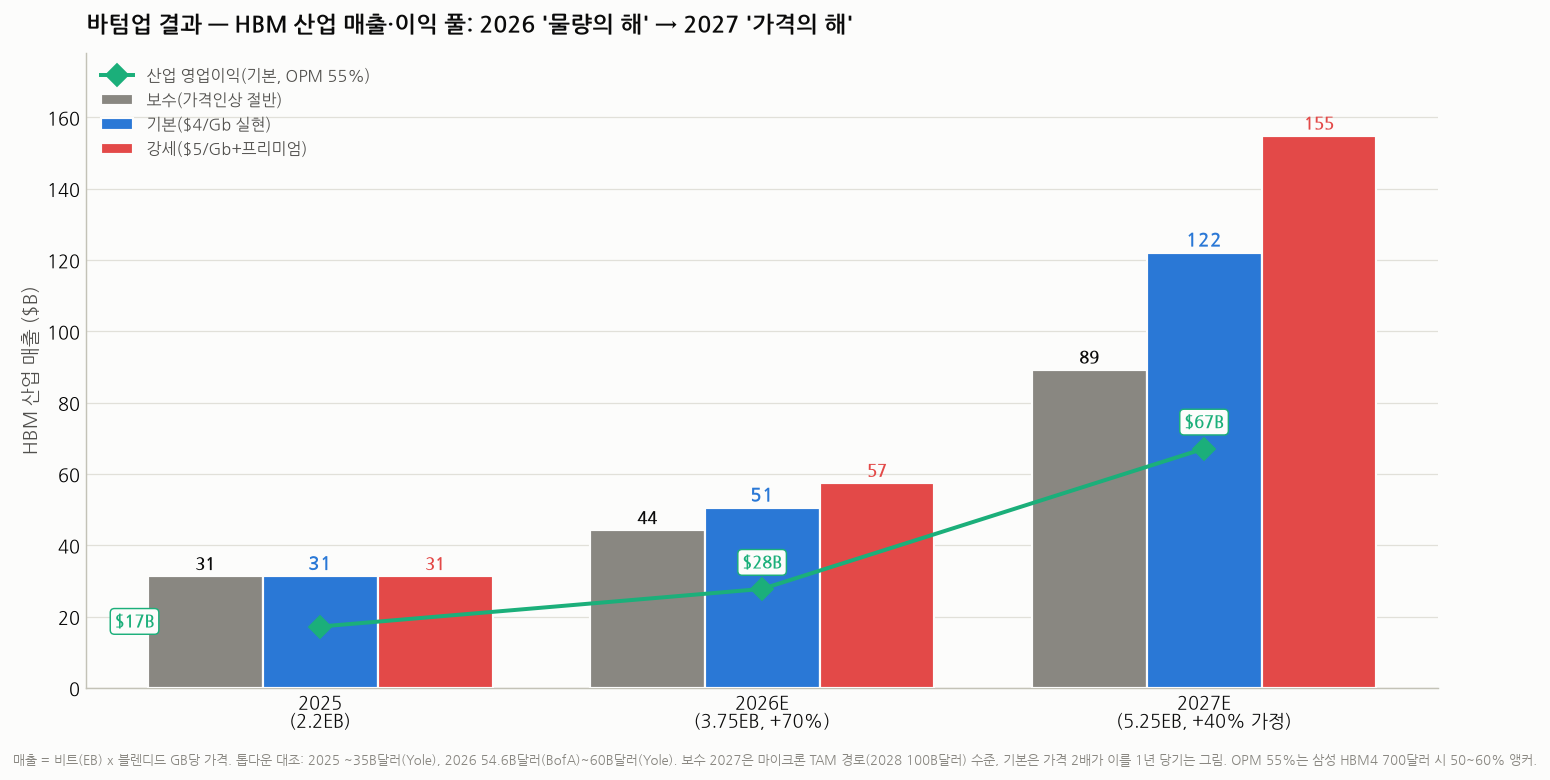
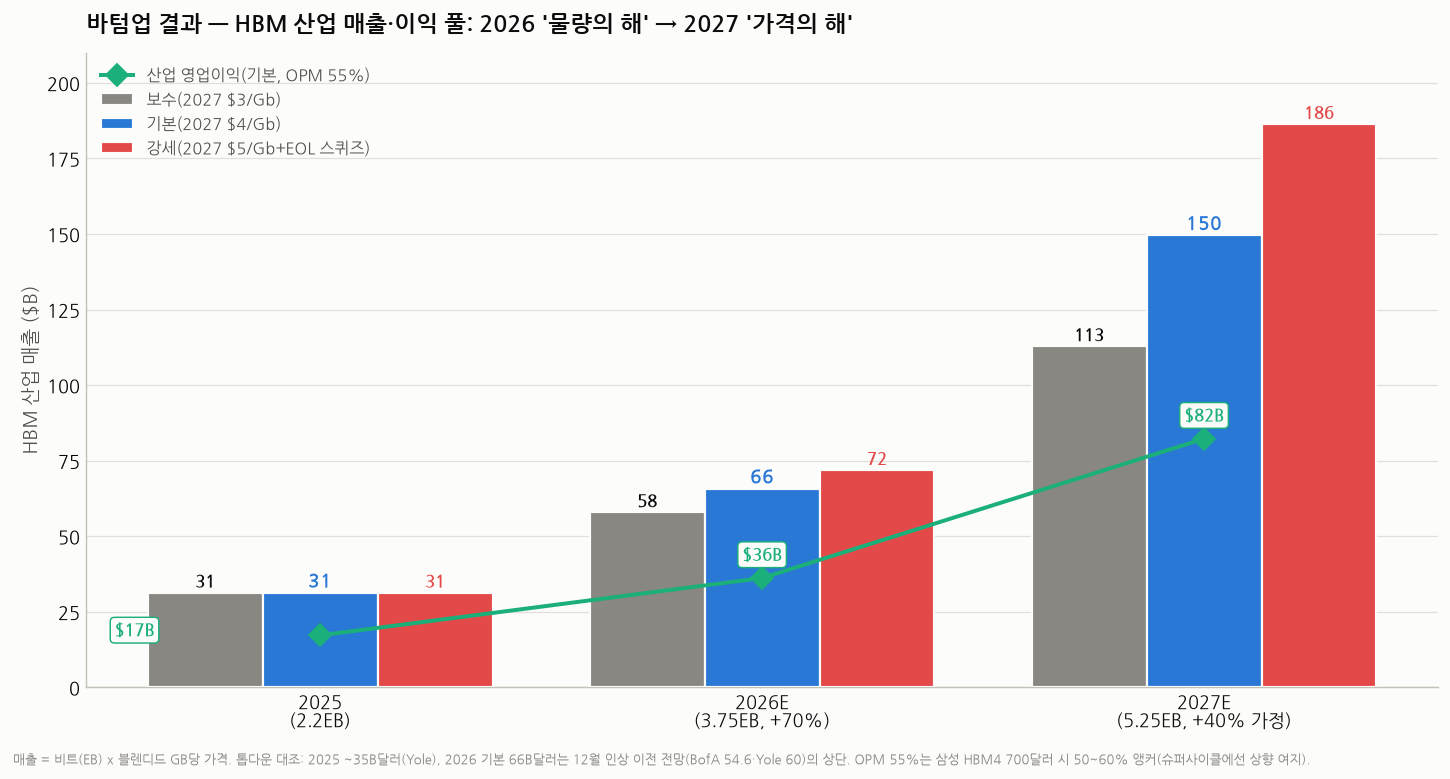
HBM 바텀업 모델 v2: 디램 슈퍼사이클 반영 가격 경로 상향 개정
- v1의 HBM3E 하락 가정 폐기: 스팟 $300 앵커가 톱다운 매출 검산과 모순, 실제로는 2026 계약 +20% 인상
- 디램 1Q26 +105~110%, 웨이퍼당 수익성 DDR5>HBM 역전이 HBM 인상 견인 반영
- 2027 앵커 최신성 재확인(서울경제 26.7.12 Gb당 $4~5, TrendForce 26.6.2 수 배)
- 엔비디아x SK $500B, 삼성x브로드컴 $200B 장기공급 딜 교차검증 추가
- 시나리오 상향: 2026 $58~72B(기본 66), 2027 $113~186B(기본 150), 이익 풀 2027 기본 $82B

Claude-Session: https://claude.ai/code/session_01EETVc5VerPTsoLzLjbKW4K

diff --git a/반도체/산업·테마분석/HBM_바텀업_가격매출이익모델.md b/반도체/산업·테마분석/HBM_바텀업_가격매출이익모델.md
@@ -1,74 +1,82 @@
 # HBM 바텀업 모델 — 버전별 가격은 얼마고, 매출·이익은 얼마가 되나 (HBM 심화 ⑦)
 
-> 작성일: 2026-08-05 · 카테고리: 반도체/산업·테마분석 · HBM 시리즈 7편(완전정복→커스텀→대체위협→CoWoS→장비소재지도→적층공정→본편)
+> 작성일: 2026-08-05 (v2 — 디램 슈퍼사이클 반영 개정) · 카테고리: 반도체/산업·테마분석 · HBM 시리즈 7편
 > 질문: "바텀업 관점에서 HBM이 버전별로 가격이 얼마나 될 것 같고, 이를 통해 얼마의 매출과 이익을 기대할 수 있을까?"
-> **검증 메모**: 가격·물량 앵커는 전부 출처를 병기했고(§2), 모델의 **가정(믹스 비중, 2027 물량 +40%, 영업이익률 55%)은 가정이라고 명시**했다. 바텀업 계산 결과를 톱다운 기관 전망(Yole·BofA·마이크론 TAM)과 **양방향 대조**해 크게 어긋나지 않음을 확인했다(§5). 초안에서 2026년 중반 스팟가($300/스택)를 연평균 계약가처럼 쓰는 오류를 발견해 **계약가 기준으로 재보정**했다.
+> **검증 메모(중요 — 개정 이력)**: v1은 "HBM3E 스팟 ~$300/스택(Silicon Analysts)"을 앵커로 써서 HBM3E 가격이 하락한다고 가정했다. 그러나 ① 이 수치는 2025년 산업 매출(~$35B, Yole)과 나누기 검산이 안 맞고(평균 $16/GB여야 하는데 $8.3/GB), ② 삼성·SK가 **2026년 HBM3E 계약가를 ~20% 인상**했다는 보도(TrendForce/Digitimes, 2025.12)와 방향이 반대다. 디램 슈퍼사이클(1Q26 재래식 디램 계약가 +105~110% QoQ)까지 반영해 **가격 경로를 상향 재보정**했다. 2027 가격 앵커(Gb당 $4~5)는 오래된 수치가 아니라 **2026년 7월 12일자 보도**로 최신임을 재확인했다.
 
 ---
 
 ## 0. 아주 쉬운 버전 (여기만 읽어도 됨)
 
-**HBM 가격을 아파트 월세에 비유하면**: HBM3E(지금 주력)는 "구축 아파트"라 월세가 내려가는 중이고, HBM4(올해 새로 나온 것)는 "신축 역세권"이라 월세가 구축의 **약 2배**다. 그리고 2027년엔 신축 월세를 **또 2배로 올리겠다**는 얘기(공급사 협상)가 나오는 상황이다.
+지금 메모리 시장은 "쌀값이 미친 시장"이다. 일반 디램(DDR5, 서버·PC용)이 **1분기에만 두 배**로 뛰었다. 그런데 HBM과 일반 디램은 **같은 논(웨이퍼 캐파)에서 나는 쌀**이다. 일반 쌀값이 두 배가 되면, 프리미엄 쌀(HBM)을 싸게 팔 이유가 없어진다 — 실제로 1분기에 **웨이퍼당 이익이 일반 디램(DDR5) > HBM3E로 역전**되는 사건까지 벌어졌고, 그래서 제조사들이 HBM 가격을 공격적으로 올리는 중이다.
 
-숫자로 요약하면:
+숫자로 요약(36GB 스택 1개 기준):
 
-| | 지금 얼마? | 내년(2027) 얼마? |
-|---|---|---|
-| **HBM3E 한 개(36GB 스택)** | 스팟(즉시구매) 기준 약 **$300** (2025년 계약가는 ~$500이었음 — 내려가는 중) | 더 하락 (구세대가 되므로) |
-| **HBM4 한 개(36GB 스택)** | 약 **$500~700** (삼성이 $700을 요구 중) | **$1,150~1,450**? (Gb당 $4~5 보도 기준 — 협상 중, 확정 아님) |
+| | 2025 | 2026 | 2027 협상 중 |
+|---|---|---|---|
+| **HBM3E** | ~$500 | **~$600 (+20% 인상)** | 유지~상승 (구세대라고 안 싸짐 — 공급 부족) |
+| **HBM4** | — | ~$580~700 (Gb당 ~$2) | **$1,150~1,450 (Gb당 $4~5, 2배+)** |
 
-이걸로 산업 전체 매출을 계산하면(판매량 × 개당 가격):
+산업 전체로 계산하면(판매량 × 가격):
 
-- **2025년: 약 $31~35B(310~350억 달러)** — 실제 기관 추정과 비슷
-- **2026년: 약 $44~57B** — 물량이 +70% 늘어나는 "**물량의 해**"
-- **2027년: 약 $89~155B** — 가격 인상이 얼마나 실현되느냐에 따라 갈리는 "**가격의 해**". 인상이 절반만 되면 $89B, 보도대로 2배가 되면 $122B+
+- **2025: ~$31~35B** — 확정된 과거
+- **2026: ~$58~72B (기본 $66B)** — 물량 +70% × 가격 +20%가 겹치는 해
+- **2027: ~$113~186B (기본 $150B)** — 가격 2배 협상이 성사되느냐가 $70B을 좌우
 
-이익은? HBM은 마진(이익률)이 매우 높다. 영업이익률 55%로 잡으면 **2027년 산업 전체 영업이익이 약 $67B(기본 시나리오)** — 2025년($17B)의 **4배**가 된다. 3사(SK하이닉스·삼성·마이크론)가 나눠 갖는 파이가 이만큼 커진다는 뜻이다.
+이익은 영업이익률 55% 가정 시 **2025 $17B → 2026 $36B → 2027 기본 $82B**. 2년 만에 산업 이익 파이가 **약 5배**가 되는 그림이고, 이 파이의 절반 이상을 SK하이닉스가 가져간다(점유 1위 + 엔비디아와 최대 $500B 장기공급 딜 체결).
 
-**단, 조심할 것 한 가지**: "물량 +40~50%"와 "가격 2배"가 **동시에 다 실현되기는 어렵다**(사는 쪽인 엔비디아·구글도 협상을 하니까). 그래서 강세 시나리오($155B)는 참고만 하고, 현실적 범위는 **$90~120B**로 보는 게 안전하다.
+**주의**: 2027 강세($186B)는 "가격 5배 소리 나오는 협상"이 다 관철될 때 얘기고, 사는 쪽(엔비디아·빅테크)의 저항·수요 파괴 가능성 때문에 **현실적 착지는 $110~150B**로 보는 게 합리적이다.
 
 ---
 
 ## 1. 왜 바텀업인가 — 계산 구조
 
-**바텀업(bottom-up)** = 아래(개당 가격 × 판매량)에서 위(산업 매출)로 쌓아 올리는 방식. 애널리스트가 "시장이 $60B가 될 것"이라고 말하는 톱다운과 반대다. 바텀업의 장점은 **어떤 가정이 숫자를 움직이는지**가 투명하게 보인다는 것.
+**바텀업(bottom-up)** = 아래(개당 가격 × 판매량)에서 위(산업 매출)로 쌓아 올리는 방식. 장점은 **어떤 가정이 숫자를 움직이는지** 투명하게 보인다는 것.
 
 ```
 산업 매출 = 총 판매 용량(EB, 엑사바이트) × 평균 판매가격($/GB)
-  - 총 판매 용량 = GPU 판매량 × GPU당 HBM 탑재량 (의 총합)
-  - 평균 가격 = 세대별 가격을 세대 믹스(HBM3E 몇 %, HBM4 몇 %)로 가중평균
 산업 영업이익 = 매출 × 영업이익률(OPM)
 ```
 
-단위 정리(혼동 주의): **1 GB = 8 Gb**(바이트 vs 비트), **1 EB(엑사바이트) = 10억 GB**. 업계 보도는 $/Gb(비트당)와 $/GB(바이트당)를 섞어 쓰는데, 이 리포트는 **$/GB로 통일**한다. 36GB 스택 = 288Gb이므로 "Gb당 $4" = "GB당 $32" = "스택당 $1,150"이다.
+단위 정리(혼동 주의): **1 GB = 8 Gb**(바이트 vs 비트), **1 EB = 10억 GB**. 보도는 $/Gb와 $/GB를 섞어 쓰는데 이 리포트는 **$/GB로 통일**한다. 36GB 스택 = 288Gb이므로 "Gb당 $4" = "GB당 $32" = "스택당 $1,150"이다.
 
 ---
 
-## 2. 검증된 앵커 — 버전별 가격 (출처 병기)
+## 2. 검증된 앵커 — 전부 날짜 병기 (최신성 확인)
 
 ![가격 앵커](img_커스텀HBM/06_가격앵커.png)
 
-| 항목 | 수치 | 출처·비고 |
-|---|---|---|
-| HBM3E 12단 36GB, 2025 계약가 | 스택당 ~$500 (8단 24GB는 ~$360) | 2024~25 업계 보도 종합. GB당 ~$14~15 |
-| HBM3E 12단 36GB, 2026.7 스팟 | 스택당 **~$300** (GB당 $8.3) | Silicon Analysts (2026.7) — 구세대화로 하락 중 |
-| HBM4 12단 36GB, 2026 시장가 | 스택당 **~$500** (GB당 $13.9) | 시장 보도 종합 — HBM3E보다 ~60~70% 비쌈 |
-| HBM4, 삼성 요구가 | 스택당 **~$700** (GB당 $19.4) | Bloomberg/AOL — 이 가격이면 영업이익률 50~60% 함의 |
-| HBM4 2027 계약 협상 | **Gb당 $4~5** (GB당 $32~40, 스택당 $1,150~1,450) | 서울경제 "HBM4 Prices to Double"(2H26 $2/Gb → 2027 $4~5/Gb), TrendForce "2027 계약가 수 배 상승" — **협상 중, 확정 아님** |
-| 엔비디아향 HBM4 프리미엄 | 최대 +100% 인상 논의 | 언론 보도 — 대형 고객일수록 협상력으로 일부 상쇄 예상 |
+### 배경: 디램 슈퍼사이클 (HBM 가격의 바닥을 받치는 힘)
 
-**한 줄 해석**: 반도체는 원래 "신제품 나오면 구제품 가격 폭락"인데, HBM은 **신세대가 나올 때마다 신세대 가격이 더 크게 뛰어** 평균 가격이 계속 오르는 특이한 시장이다(제품이 아니라 '세대'가 프리미엄을 만든다 — ☞ 커스텀HBM 리포트의 'ASIC화' 논리와 연결).
+| 사실 | 수치 | 출처(날짜) |
+|---|---|---|
+| PC 디램 계약가 1Q26 | **+105~110% QoQ** (사상 최대) | TrendForce |
+| 재래식 디램 전체 1Q26 | +90~95% QoQ, 산업 매출 +81% QoQ | TrendForce (2026.6.1) |
+| 2Q26 추가 인상 | +58~63% | TrendForce |
+| 웨이퍼당 수익성 역전 | 1Q26 DDR5 64GB RDIMM이 HBM을 **매출·이익 모두 추월** | TrendForce — HBM 인상의 직접 원인 |
+
+### HBM 가격 앵커
+
+| 항목 | 수치 | 출처(날짜) |
+|---|---|---|
+| HBM3E 2025 계약가 | 12단 36GB ~$500, 8단 24GB ~$360 (GB당 ~$14~15) | 2024~25 업계 보도 종합 |
+| HBM3E 2026 계약가 | **~20% 인상** → 스택당 ~$600 (GB당 ~$17~18) | TrendForce/Digitimes (2025.12.24) |
+| HBM3E 인상 모멘텀 | DDR5 수익성 상회가 "2026 HBM3E 가격을 강화" | TrendForce (2025.12.18) |
+| HBM4 2H26 | **Gb당 ~$2** (GB당 $16, 스택당 ~$580) · 삼성 요구가 ~$700 | 서울경제(2026.7.12) · Bloomberg |
+| **HBM4 2027 계약 협상** | **Gb당 $4~5 (GB당 $32~40, 스택당 $1,150~1,450)** | **서울경제 (2026.7.12자 — 최신)** |
+| 2027 계약가 방향 | "타이트한 디램 공급 → 공급사가 절대적 가격결정력, **2027 계약가 수 배 상승**" | TrendForce 공식 (2026.6.2) |
+| 장기공급 확약 | 엔비디아×SK그룹 **최대 $500B** 전략 파트너십(HBM3E·HBM4 우선공급 LOI) · 삼성×브로드컴 $200B 협력 | CNBC·SK하이닉스 뉴스룸 (2026.7.25) |
 
 ### 물량 앵커
 
-| 항목 | 수치 | 출처·비고 |
+| 항목 | 수치 | 출처 |
 |---|---|---|
-| HBM 수요 성장률 | 2025 **+130%** → 2026 **+70%** YoY | TrendForce |
-| 2026 출하량 | **30B Gb 이상 = 약 3.75EB** | TrendForce (2026 전망) |
-| 2025 출하량 | 약 2.2EB | 위 수치에서 +70% 역산 (추정) |
-| 2027 출하량 | 약 5.25EB (**+40% — 가정**) | 성장 둔화 추세(130→70→40%) 연장. 검증된 전망치 아님 |
-| GPU당 탑재량 | B200 192GB → Rubin 288GB → Rubin Ultra 384GB(2027) | 엔비디아 로드맵 (기존 리포트에서 검증) |
-| 세대 믹스 | 2H26에 HBM4가 HBM3E 역전 | TrendForce. 연간 비중은 모델 가정(아래) |
+| HBM 수요 성장률 | 2025 +130% → 2026 **+70%** YoY | TrendForce |
+| 2026 출하량 | **30B Gb 이상 = ~3.75EB** · 2026 캐파는 2025년 말 이미 완판 | TrendForce |
+| 2025 출하량 | ~2.2EB (+70% 역산, 추정) | — |
+| 2027 출하량 | ~5.25EB (**+40% — 가정**, 성장 둔화 추세 연장) | 검증된 전망치 아님 |
+| 세대 믹스 | 2H26 HBM4가 HBM3E 역전 | TrendForce |
+| GPU당 탑재량 | B200 192GB → Rubin 288GB → Rubin Ultra 384GB(2027) | 엔비디아 로드맵 (기존 검증) |
 
 ---
 
@@ -76,19 +84,19 @@
 
 | 가정 | 2025 | 2026E | 2027E | 성격 |
 |---|---|---|---|---|
-| 물량(EB) | 2.2 | 3.75 | 5.25 | 25~26은 앵커 기반, **27은 가정** |
-| 믹스: HBM3(구형) | 15% | — | — | 추정 |
-| 믹스: HBM3E | 85% | 55% | 25% | **가정** (2H26 역전 앵커에 정합) |
-| 믹스: HBM4 | 0% | 45% | 75% | **가정** |
-| 영업이익률(OPM) | 55% | 55% | 55% | 삼성 HBM4 $700 시 50~60% 앵커의 중간값. **가정** |
+| 물량(EB) | 2.2 | 3.75 | 5.25 | 25~26 앵커 기반, **27은 가정** |
+| 믹스: HBM3 / 3E / 4 | 15/85/0% | 0/55/45% | 0/25/75% | 2H26 역전 앵커에 정합시킨 **가정** |
+| 영업이익률(OPM) | 55% | 55% | 55% | 삼성 HBM4 $700 시 50~60% 앵커 중간값. 슈퍼사이클에선 상향 여지 |
 
-가격 시나리오($/GB — 세대별 연평균 계약가 기준):
+가격 시나리오($/GB — 세대별 연평균 계약가):
 
 | 시나리오 | 2026 HBM3E / HBM4 | 2027 HBM3E / HBM4 | 의미 |
 |---|---|---|---|
-| **보수** | $10 / $14 | $8 / **$20** | 2027 인상이 절반만 실현 (마이크론 TAM 경로 수준) |
-| **기본** | $11 / $16.5 | $9 / **$28** | 인상 ~70% 실현 (Gb당 $3.5 부근) |
-| **강세** | $12 / $19.4(삼성 $700) | $10 / **$36** | Gb당 $4.5~5 + 삼성 요구가 관철 |
+| **보수** | $15 / $16 | $14 / **$24** | 2026 인상 일부 반납, 2027 Gb당 $3에 타협 |
+| **기본** | $18 / $17 | $18 / **$32** | +20% 인상 유지 + 2027 Gb당 $4 실현 |
+| **강세** | $19 / $19.4 | $22 / **$40** | 삼성 $700 관철 + 2027 Gb당 $5 + 구세대 EOL 스퀴즈 |
+
+> 참고: 2026년 기본에서 HBM4($17)가 HBM3E($18)와 비슷한 건 오타가 아니다 — 신제품 초기 가격(Gb당 ~$2)이 확 인상된 구세대와 겹치는 과도기 현상으로, 2027년에 프리미엄이 크게 벌어지는 구조다(서울경제 보도 기준).
 
 ---
 
@@ -100,34 +108,33 @@
 
 | | 2025 | 2026E | 2027E |
 |---|---|---|---|
-| 보수 | 31 | 44 | **89** |
-| **기본** | 31 | **51** | **122** |
-| 강세 | 31 | 57 | 155 |
+| 보수 | 31 | 58 | 113 |
+| **기본** | 31 | **66** | **150** |
+| 강세 | 31 | 72 | 186 |
 
 **산업 영업이익($B, OPM 55% 가정):**
 
 | | 2025 | 2026E | 2027E |
 |---|---|---|---|
-| 보수 | 17 | 24 | 49 |
-| **기본** | 17 | **28** | **67** |
-| 강세 | 17 | 32 | 85 |
+| 보수 | 17 | 32 | 62 |
+| **기본** | 17 | **36** | **82** |
+| 강세 | 17 | 40 | 103 |
 
 **읽는 법**:
-- **2026은 '물량의 해'** — 시나리오 간 격차가 작다($44~57B). 가격보다 +70% 물량이 매출을 끌고 간다. 이 해의 관전 포인트는 가격 협상보다 **캐파 증설과 수율**.
-- **2027은 '가격의 해'** — 격차가 확 벌어진다($89~155B). **HBM4 계약가 협상 하나가 산업 매출 $30~60B를 좌우**한다. 2026년 말~2027년 초에 나올 계약가 뉴스가 3사 주가의 최대 변수라는 뜻.
-- 기본 시나리오 기준 **영업이익 풀이 2년 만에 $17B → $67B로 4배**. 이 파이를 SK하이닉스(점유 1위)·삼성·마이크론이 나눈다. 점유율을 대략 5:2.5:2.5로 두면 SK 몫만 **연 $30B(약 40조 원대)** 규모의 영업이익이 HBM 한 품목에서 나온다는 계산 — 다만 **점유율 배분은 별도 검증이 필요한 추정**이므로 참고만.
+- **2026은 '물량×인상 중첩의 해'** — 물량 +70%에 가격 +20%가 곱해져 기본 $66B(전년 대비 2.1배). 캐파는 이미 완판이라 시나리오 격차($58~72B)는 상대적으로 작다.
+- **2027은 '가격의 해'** — HBM4 계약가(Gb당 $3이냐 $4냐 $5냐) 하나가 매출 **$70B**를 좌우한다. 2026년 말~2027년 초 계약가 확정 뉴스가 3사 주가의 최대 촉매.
+- 기본 기준 **이익 풀 $17B → $82B (2년 5배)**. SK 점유율(HBM 1위 + $500B 딜)을 절반으로 두면 SK 몫만 연 **$40B(약 55조 원)** 규모 — 다만 점유율 배분은 **추정**이므로 참고만.
 
 ---
 
-## 5. 크로스체크 — 이 숫자가 말이 되나 (양방향 검증)
+## 5. 크로스체크 — 이 숫자가 말이 되나
 
-바텀업 숫자는 반드시 독립적인 톱다운 숫자와 맞춰봐야 한다. 세 가지로 대조했다:
+1. **2025 검산**: 모델 $31B vs Yole ~$35B (-10%, 정합) ✅
+2. **2026 검산**: 기본 $66B는 BofA $54.6B·Yole $60B를 웃돈다 — 그런데 이 전망들은 **12월 인상 발표 전**에 나온 것이라, +20% 인상을 반영하면 상회가 자연스럽다. 1Q26 디램 산업 매출 +81% QoQ라는 실적이 상향을 지지 ✅
+3. **마이크론 TAM 경로($35B 2025 → $100B 2028)와 대조**: 기본 2027 $150B는 이 경로를 **1년 이상 앞당겨 돌파**하는 그림. 마이크론 전망 역시 슈퍼사이클 이전 수치라 낡았을 가능성이 크다 — 다만 이 말은 곧 "현재 가격이 사이클 고점권 수치"라는 뜻이기도 하다(아래 리스크) ⚠
+4. **GPU 한 대 검산**: Rubin 288GB = 36GB×8스택. 2027 기본 가격($1,150/스택)이면 **GPU 한 대에 HBM만 ~$9,200** — GPU 판가(3~5만 달러 추정)의 20~30%. 엔비디아가 장기공급 딜($500B)로 물량을 잠근 이유이자, 동시에 **탑재량 절약 설계(HBF·GDDR7 계층화, ☞ 대체위협 리포트)의 유인이 커지는 임계점** ✅
 
-1. **기관 전망과 대조**: 2025 모델값 $31B vs **Yole ~$35B** (오차 -10% — 모델이 약간 보수적). 2026 기본 $51B vs **BofA $54.6B, Yole ~$60B** (기본~강세 사이). ✅ 정합
-2. **마이크론 TAM 경로와 대조**: 마이크론은 TAM(전체 시장)을 **2025 $35B → 2028 $100B**로 제시했다. 모델의 보수 2027($89B)은 이 경로 위에 있고, 기본($122B)은 "**가격 2배가 TAM $100B 도달을 1년 앞당긴다**"는 그림이다. 강세($155B)는 경로를 크게 이탈 — 그래서 참고용. ✅ 구조 이해에 부합
-3. **GPU 한 대 기준 상향 검산**: Rubin 288GB = 36GB 스택 × 8개. HBM4 $500~700/스택이면 **GPU 한 대에 HBM만 $4,000~5,600**. 2027 강세 가격($1,150+)이면 스택 8개 = **$9,000+/GPU** — GPU 판가(3~5만 달러 추정)의 20~30%까지 올라간다. 이러면 엔비디아가 탑재량을 줄이거나(HBF·GDDR7 계층화 — ☞ 대체위협 리포트) 협상으로 깎을 유인이 커진다. **강세 시나리오가 자기모순을 갖는 이유**가 바텀업으로 보인다. ✅
-
-**핵심 통찰(바텀업이 가르쳐주는 것)**: "물량 +40%"와 "가격 2배"는 **곱해지는 항이라 동시 실현이 어렵다**. 가격이 2배가 되면 수요(탑재량·주문량)가 깎이고, 물량이 다 나가려면 가격을 양보해야 한다. 그래서 현실적 착지점은 보수~기본 사이(**2027 매출 $90~120B, 영업이익 $50~67B**)로 보는 게 합리적이다.
+**핵심 통찰**: 이번 개정에서 배울 점은 "구세대는 싸진다"는 반도체 상식이 **공급 부족 사이클에선 작동하지 않는다**는 것. DDR4가 EOL(단종) 국면에서 폭등했듯, HBM3E도 캐파가 HBM4로 이동하는 2027년에 오히려 귀해질 수 있다. 가격의 바닥을 재래식 디램의 기회비용이 받치고 있는 구조다.
 
 ---
 
@@ -135,25 +142,27 @@
 
 | 리스크 | 어느 가정이 깨지나 | 결과 |
 |---|---|---|
-| 2027 가격 협상 무산 (빅테크 반발·수요 둔화) | 기본→보수 이하 | 매출 $89B 밑으로. 다만 이 경우도 2025의 3배 |
-| AI 캐펙스 사이클 꺾임 | 물량 +40% 가정 붕괴 | 물량·가격 동시 하락 — 최악 조합 (☞ 메모리 급락 리포트의 베어 논리) |
-| 삼성 캐파 공격 증설 → 공급과잉 | 가격 시나리오 전체 하향 | HBM도 '커머디티화' — PBR 밸류에이션으로 회귀 |
-| HBF·GDDR7 계층 분화 가속 | GPU당 HBM 탑재량 성장 둔화 | 물량 성장 하향 (☞ 대체위협 리포트) |
-| 환율·OPM 가정 | OPM 55%는 HBM4 프리미엄 실현 전제 | 가격 하락 시 OPM 40%대로 — 이익 즉시 -25% |
+| 2027 계약이 Gb당 $3 이하로 타결 | 기본→보수 | 매출 $113B — 그래도 2025의 3.6배 |
+| AI 캐펙스 사이클 꺾임 (빅테크 발주 축소) | 물량 +40% 가정 붕괴 | 물량·가격 동시 하락 — 최악 조합. **지금 가격 앵커들이 사이클 고점권 수치일 위험** (☞ 메모리 급락 리포트) |
+| 사이클 정점 통과 (2027~28 증설분 공급 도달) | 가격 시나리오 전체 | 슈퍼사이클의 숙명 — 인상 폭이 클수록 하강도 깊다. PBR 밸류에이션 회귀 |
+| 수요 파괴 (HBM이 너무 비싸짐) | GPU당 탑재량 성장 둔화 | HBF·GDDR7·SOCAMM 계층 분화 가속 (☞ 대체위협) |
+| OPM 55% 가정 | 원가(TSV·수율·파운드리 베이스다이) 상승 | HBM4는 베이스다이 외주(TSMC)로 원가 구조가 다름 — 마진 상향폭 제한 가능 |
 
 ---
 
-## 참고 출처 (검증)
+## 참고 출처 (검증·날짜순)
 
-- [TrendForce — HBM 수요 2025 +130% → 2026 +70%, 2026 출하 30B Gb+, 2H26 HBM4 역전](https://www.trendforce.com/presscenter/news/20251113-12780.html)
-- Yole Group — HBM 매출 2025 ~$35B → 2026 ~$60B (+70%)
-- 뱅크오브아메리카(BofA) — 2026 HBM 시장 $54.6B (+58%) (테크월드 등 보도)
-- Silicon Analysts (2026.7) — HBM3E 36GB 스팟 ~$300
-- Bloomberg/AOL — 삼성 HBM4 ~$700 요구, 영업이익률 50~60% 함의
-- [서울경제 — "HBM4 Prices to Double": 2H26 $2/Gb → 2027 $4~5/Gb](https://www.sedaily.com/)
-- 마이크론 — HBM TAM 2025 $35B → 2028 $100B (실적 콜)
-- 엔비디아 로드맵 — Rubin 288GB(HBM4 8스택)·Rubin Ultra 384GB (기존 리포트 검증치)
+- [TrendForce — HBM3E 2026 계약가 ~20% 인상 (2025.12.24)](https://www.trendforce.com/news/2025/12/24/news-samsung-sk-hynix-reportedly-plan-20-hbm3e-price-hike-for-2026-as-nvidia-h200-asic-demand-rises/)
+- [TrendForce — DDR5 수익성이 HBM3E 상회, 2026 HBM3E 가격 강화 (2025.12.18)](https://www.trendforce.com/presscenter/news/20251218-12843.html)
+- [TrendForce — 1Q26 디램 산업 매출 +81% QoQ, PC 디램 +105~110% (2026.6.1)](https://www.trendforce.com/presscenter/news/20260601-13070.html)
+- [TrendForce — 공급사 가격결정력 강화, 2027 HBM 계약가 수 배 상승 전망 (2026.6.2)](https://www.trendforce.com/presscenter/news/20260602-13074.html)
+- [서울경제 — HBM4 2H26 Gb당 ~$2 → 2027 $4~5 (2026.7.12)](https://en.sedaily.com/finance/2026/07/12/hbm4-prices-to-double-next-year-as-samsung-sk-hynix-keep)
+- [CNBC — 엔비디아×SK하이닉스 최대 $500B AI 딜, HBM 우선공급 (2026.7.25)](https://www.cnbc.com/2026/07/25/nvidia-locks-down-memory-from-sk-hynix-as-part-of-500-billion-ai-deal.html)
+- [SK하이닉스 뉴스룸 — SK그룹×엔비디아 전략 파트너십 (2026.7)](https://news.skhynix.com/en/skhynix-nvidia-partnership-2026/)
+- Yole Group — HBM 매출 2025 ~$35B (인상 이전 전망) · BofA — 2026 $54.6B (〃)
+- Bloomberg — 삼성 HBM4 ~$700 요구, OPM 50~60% 함의
+- 마이크론 — HBM TAM 2025 $35B → 2028 $100B (실적 콜, 인상 이전 전망)
 
-**저장소 연계**: `HBM_완전정복`(세대 스펙) · `커스텀HBM_메모리의ASIC화`(가격 결정 구조 변화) · `HBM_대체위협`(탑재량 리스크) · `CoWoS_첨단패키징병목`(물량 제약) · `메모리수요_구조적인가_사이클인가`(PER vs PBR)
+**저장소 연계**: `HBM_완전정복` · `커스텀HBM_메모리의ASIC화`(웨이퍼당 마진 역전 상세) · `HBM_대체위협`(수요 파괴 경로) · `CoWoS_첨단패키징병목`(물량 제약) · `메모리수요_구조적인가_사이클인가`(PER vs PBR — 사이클 고점 판별)
 
-> 유의: 이 모델은 산업 '파이 크기' 추정이지 특정 종목의 실적 전망이 아니다. 3사 점유율·개별 원가는 비공개라 종목별 환산에는 추가 가정이 필요하다. 2027 가격은 협상 중인 수치로, 확정 계약가 뉴스가 나오면 이 리포트를 갱신해야 한다.
+> 유의: 이 모델은 산업 '파이 크기' 추정이지 특정 종목의 실적 전망이 아니다. 2027 가격은 협상 중인 수치이며, 계약가 확정·분기 실적이 나올 때마다 갱신이 필요하다. 특히 현재 앵커들은 슈퍼사이클 한복판의 수치라 **고점 편향** 가능성을 항상 염두에 둘 것.
